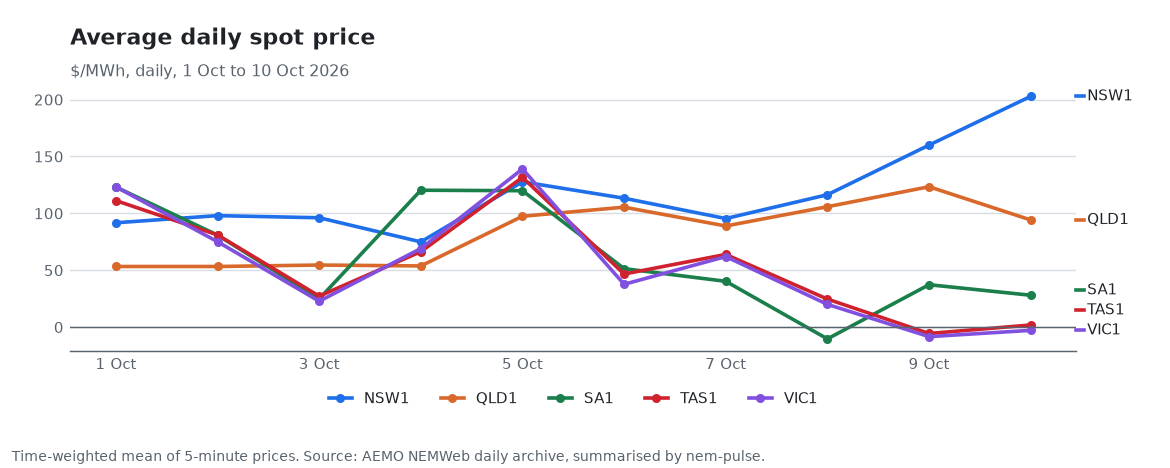
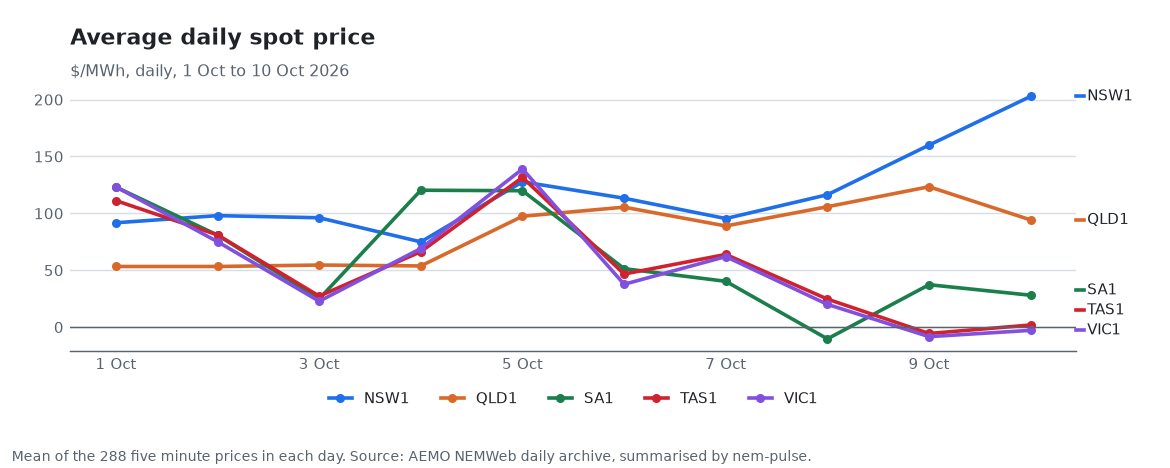
Rewrite README for visitors and refresh the Latest section
Open with the renewables chart, explain the data files and columns, give
quick start commands that were run, show the AEMO reconciliation as a table
and keep the limits visible. Owner notes (build plan, next steps, stretch,
definition of done, status line) moved out of the repo. Plain wording in
the pyproject description and the price chart footnote.

Changed region(s): [[0.0, 0.9573, 0.7077, 0.9872]]

diff --git a/src/nem_pulse/charts.py b/src/nem_pulse/charts.py
@@ -22,7 +22,7 @@ CHARTS = [
     # metric, title, file name, scale, unit, footnote
     ("renewable_share", "Renewable share of generation", "renewables.png", 100, "%",
      "Excludes rooftop solar, so daytime renewables in NSW, QLD and SA read low."),
-    ("avg_price", "Average daily spot price", "price.png", 1, "$/MWh", "Time-weighted mean of 5-minute prices."),
+    ("avg_price", "Average daily spot price", "price.png", 1, "$/MWh", "Mean of the 288 five minute prices in each day."),
     ("intensity_g_per_kwh", "Emissions intensity of generation", "intensity.png", 1, "g CO₂e/kWh",
      "Scheduled and semi-scheduled units only."),
 ]

diff --git a/README.md b/README.md
@@ -1,83 +1,23 @@
 # nem-pulse
 
-> A self-updating dataset repo for the NEM, maintained by a scheduled GitHub Action.
+A small public dataset of daily summaries for Australia's National Electricity Market (NEM). A scheduled GitHub Action keeps it up to date.
 
-**Status:** v0.1 core built; seeded with 10 days; reconciles with AEMO · Portfolio project #8 · see `../README.md`
+[![CI](https://github.com/Guinerve/nem-pulse/actions/workflows/ci.yml/badge.svg)](https://github.com/Guinerve/nem-pulse/actions/workflows/ci.yml)
+[![Daily NEM summary](https://github.com/Guinerve/nem-pulse/actions/workflows/daily.yml/badge.svg)](https://github.com/Guinerve/nem-pulse/actions/workflows/daily.yml)
+[![Licence: MIT](https://img.shields.io/badge/licence-MIT-blue.svg)](LICENSE)
 
-## The idea
+![Renewable share of generation per NEM region, one point per day](assets/renewables.png)
 
-The "git scraping" pattern: a scheduled Action pulls a daily NEM summary (prices, renewable share, records broken), commits it as CSV, and regenerates charts in the README. The repo stays useful with no upkeep and becomes a small public dataset.
+Every morning the Action downloads the AEMO archive files for the newest days. It reduces them to one row per region per day: prices, demand, generation mix and emissions intensity. Then it commits the CSV files, redraws the charts and rewrites the [Latest](#latest) section below.
 
-## Stack
-
-Python (uv), the shared `nem` client, matplotlib, GitHub Actions cron.
-
-Python project managed with `uv`; target a one-command run (`uv run ...`).
-
-## Build plan (v1)
-
-- [x] Daily summary script → `data/YYYY/MM/DD.csv` plus a rolling `latest.csv`
-- [x] Records detector (`data/records.csv`; needs at least 7 days of history) (e.g. highest renewable share, lowest operational demand)
-- [x] Regenerate charts on each run (`assets/*.png`; not yet embedded in this README)
-- [x] Scheduled workflow (`.github/workflows/daily.yml`, 06:30 AEST; untested on GitHub) with a commit-only-if-changed step
-
-## Run it
-
-```bash
-uv sync
-uv run nem-pulse                              # newest archived day (NEM today minus 2)
-uv run nem-pulse --date 2026-10-10 --days 10  # backfill
-uv run pytest -q                              # 11 tests
-```
-
-Depends on `nem-mcp` as a git dependency on `github.com/Guinerve/nem-mcp`. It is public, so the workflow needs no secret.
-
-## How I know it's right
-
-**Reconciliation with AEMO's published "Aggregated price and demand" CSVs** (`scripts/reconcile.py`, `docs/reconciliation-2026-10.txt`), 50 region-days (2026-10-01 to 10):
-
-- daily average price: max difference **0.0049 $/MWh** (mean 0.0026)
-- daily average demand: max difference **0.048 MW** (mean 0.027)
-- daily max price: max difference **0.0000**
-- 288 intervals per day in both sources, every day
-
-The small differences are rounding.
-
-**Fails loudly**: `summarise_day` raises `SourceDataError` for an empty source, fewer than 285 of 288 intervals, or NaN prices; the CLI exits with status 2 so the workflow goes red and nothing partial is committed (tested). The same applies to missing demand, a missing README marker, an unlistable archive or a failed download. The commit step only commits when files changed. Archive days are cached only if they look complete (≥280 intervals), and cache writes are atomic.
-
-## Limits
-
-Generation shares come from scheduled/semi-scheduled SCADA and **exclude rooftop solar**, so "renewable share" understates daytime renewables in NSW, QLD and SA. The NEM price is demand-weighted across regions. "Records" are relative to this dataset's own history only (10 days so far, so early records are meaningless).
-
-Daily resolution only; derived figures, not an official AEMO dataset.
-
-## Next (tomorrow)
-
-- Add rooftop PV; embed the charts above in this README.
-- Backfill a longer history (the archive goes back years) so records mean something.
-- Make `nem` installable from git so the workflow runs standalone; then test the Action.
-
-## Stretch
-
-Datasette or a static explorer page on GitHub Pages.
-
-## Definition of done
-
-- [ ] Hero GIF or screenshot at the top of this README
-- [x] Live demo link or one-command run (`uv run nem-pulse`)
-- [ ] "How I know it's right" section filled in with real results
-- [ ] Tests passing in CI, badge added
-- [ ] "Limits" section written
-- [ ] Licence chosen, repo description and topics set
-- [ ] Pinned on GitHub profile and added to guinerve.github.io
-- [ ] Added to `career-radar/data/cv/portfolio.json`
+I built it to try the "git scraping" pattern on grid data: the repository is the dataset, and the commit history shows when each number arrived. Everything runs in a scheduled GitHub Action, so there is no server to maintain.
 
 ## Latest
 
 <!-- PULSE:START -->
 _Updated for 2026-10-11 (NEM time)._
 
-| Region | Avg price | Renewables | Intensity | Neg. price intervals |
+| Region | Avg price | Renewables | Intensity | Negative price intervals |
 |---|---:|---:|---:|---:|
 | NSW1 | $134/MWh | 39% | 504 g/kWh | 34 |
 | QLD1 | $109/MWh | 27% | 620 g/kWh | 96 |
@@ -100,4 +40,108 @@ _Updated for 2026-10-11 (NEM time)._
 - **2026-10-10** NSW1: lowest emissions intensity (465.1, previous best 488.4)
 <!-- PULSE:END -->
 
-> The AEMO archive trails real time by about two days, so this dataset is two days behind the grid. (Found when the first scheduled run on GitHub failed with a 404 for "yesterday".)
+The AEMO daily archive is about two days behind the grid, so the newest day here is two days old. I found this when the first scheduled run asked for "yesterday" and got a 404.
+
+## What is in the data
+
+| File | Content |
+|---|---|
+| `data/YYYY/MM/DD.csv` | One file per day. One row for each region (NSW1, QLD1, SA1, TAS1, VIC1) and one for the whole NEM. |
+| `data/latest.csv` | The newest 30 days in one file. |
+| `data/records.csv` | Days that set a new high or low for a region, compared with all earlier days in this dataset. |
+| `assets/*.png` | Charts of renewable share, average price and emissions intensity for the last 60 days. |
+
+Each daily row has these columns:
+
+- `avg_price`, `min_price`, `max_price` in $/MWh, from the 288 five minute dispatch intervals.
+- `negative_intervals`: the number of intervals with a price below zero.
+- `avg_demand_mw`, `max_demand_mw`: operational demand.
+- `generation_mwh` and the share of it from renewables, wind, solar, coal, gas, hydro and batteries.
+- `intensity_g_per_kwh`: emissions intensity in g CO₂e/kWh.
+
+The NEM row uses a price weighted by regional demand for each interval.
+
+## Quick start
+
+You need Python 3.11 or later and [uv](https://docs.astral.sh/uv/).
+
+```bash
+git clone https://github.com/Guinerve/nem-pulse.git
+cd nem-pulse
+uv sync
+uv run nem-pulse --date 2026-10-10 --days 1
+```
+
+The last command downloads 10 October 2026 again. It then rewrites `data/latest.csv`, the charts and the Latest section of the README. The CSV file for that day does not change, so the output says `unchanged`.
+
+Other examples:
+
+```bash
+uv run nem-pulse                              # the newest archived day (NEM today minus 2)
+uv run nem-pulse --date 2026-10-10 --days 10  # 1 to 10 October 2026
+uv run nem-pulse --help                       # all options
+```
+
+To read the data without installing anything, open a CSV file on GitHub or load it with pandas:
+
+```python
+import pandas as pd
+df = pd.read_csv("https://raw.githubusercontent.com/Guinerve/nem-pulse/main/data/latest.csv")
+```
+
+## How it works
+
+1. The workflow in `.github/workflows/daily.yml` runs at 20:30 UTC (06:30 AEST) each day.
+2. It fetches the last 3 archived days. A day that AEMO publishes late is picked up on the next run.
+3. The [`nem`](https://github.com/Guinerve/nem-mcp) client downloads the NEMWeb price and SCADA archive files for each day.
+4. `summarise_day` joins SCADA output to a generator list with fuel types and emission factors. It then sums each day per region.
+5. `store.write_day` writes the CSV only when its content changed.
+6. `find_records` compares each new day with all earlier days. It starts after 7 days of history.
+7. The workflow commits only when a file changed.
+
+If source data is missing or incomplete, the run stops with exit status 2. Examples are an empty file, fewer than 285 of 288 intervals, a missing price or demand value, or a failed download. The workflow then fails and commits nothing. A README without the `PULSE` markers also stops the run.
+
+The workflow token can only read by default. Only the data job can write, and it uses the token only for the final `git push`. Actions are pinned to commit SHAs.
+
+## How I know it is right
+
+I compared the daily figures with AEMO's published "Aggregated price and demand" CSV files. The script is `scripts/reconcile.py` and the output is in `docs/reconciliation-2026-10.txt`. It covers 50 region days, 1 to 10 October 2026.
+
+| Check | Largest difference | Mean difference |
+|---|---:|---:|
+| Daily average price | 0.0049 $/MWh | 0.0026 $/MWh |
+| Daily average demand | 0.048 MW | 0.027 MW |
+| Daily maximum price | 0.0000 $/MWh | |
+| Intervals per day | 288 in both sources, every day | |
+
+The small differences come from rounding. To run the check again:
+
+```bash
+uv run python scripts/reconcile.py 202610
+```
+
+## Limits
+
+- Generation shares use SCADA data for scheduled and semi-scheduled units. **Rooftop solar is not included.** The renewable share is therefore too low in daylight hours, most of all in NSW, QLD and SA.
+- Records compare a day only with the history in this dataset. It starts on 1 October 2026, so the current records beat only 7 to 9 earlier days.
+- Only price and demand are checked against AEMO. I have not yet checked the generation mix or emissions intensity against another source.
+- The figures are daily and derived from AEMO data. This is not an official AEMO dataset.
+
+## Roadmap
+
+- Backfill a longer history from the archive, so that records mean more.
+- Add rooftop solar estimates to the generation mix.
+
+## Development
+
+```bash
+uv sync
+uv run pytest -q        # 20 tests, no network needed
+uv run ruff check .
+```
+
+The tests use synthetic interval data. They cover the daily summary, the checks that stop a bad run, the CSV store, record detection, the README rewrite and the command line exit codes.
+
+## Licence
+
+MIT. See [LICENSE](LICENSE).
